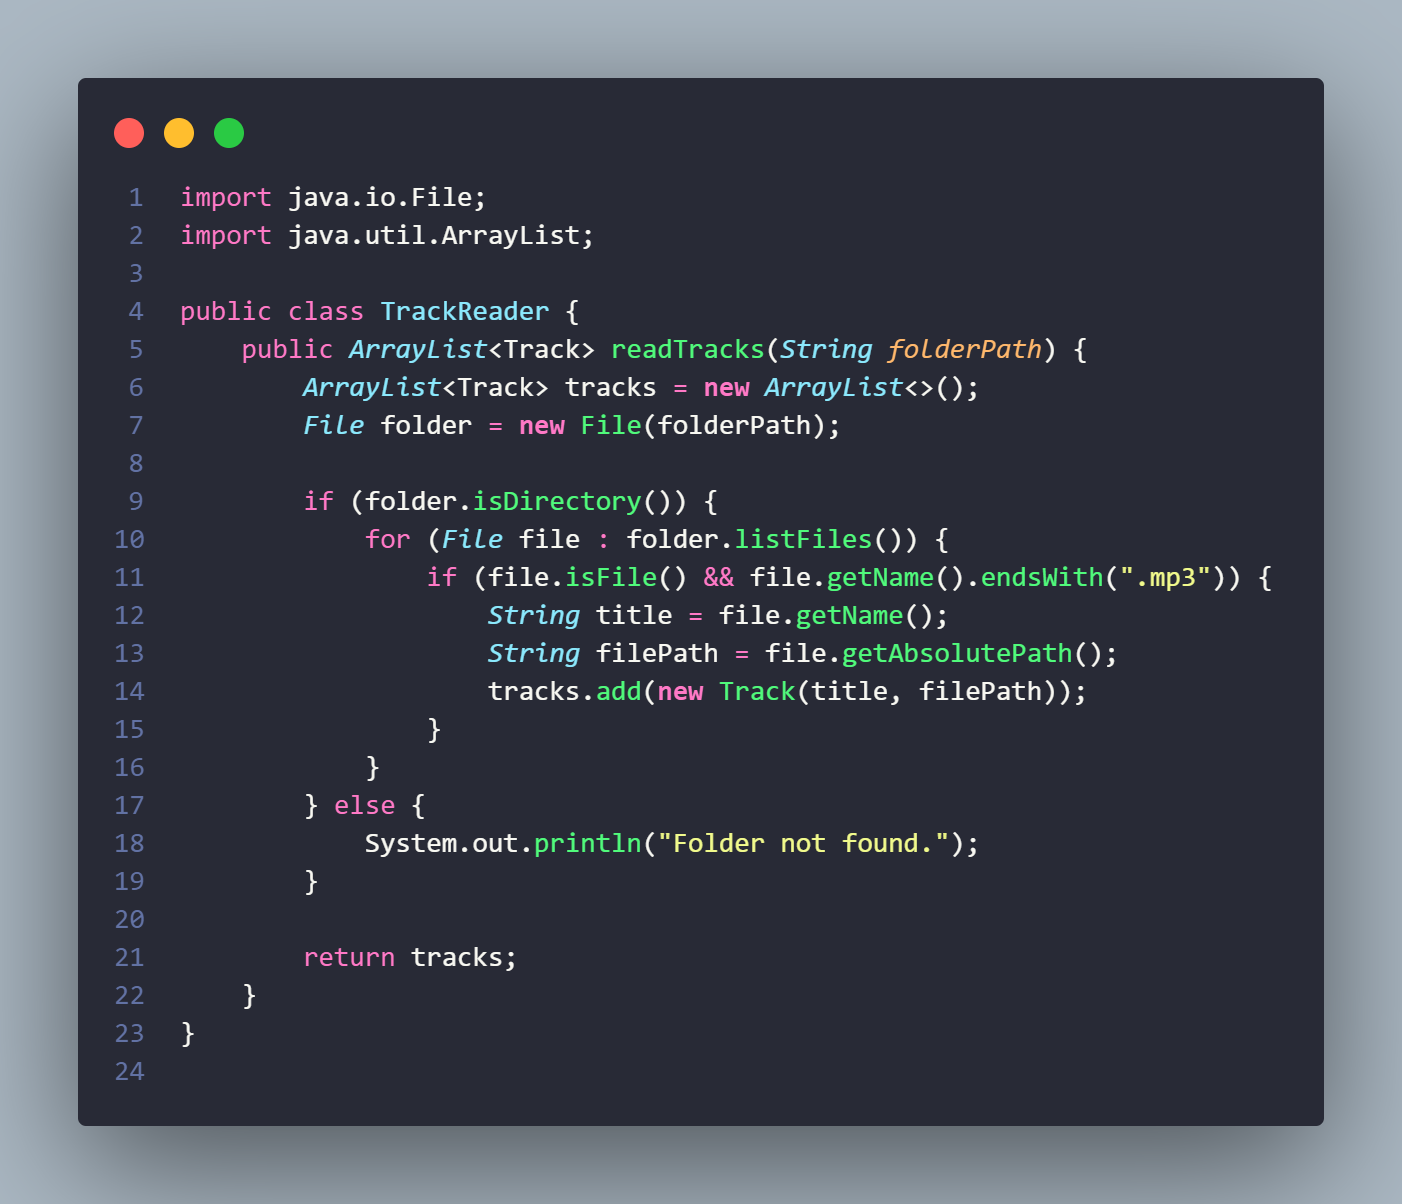
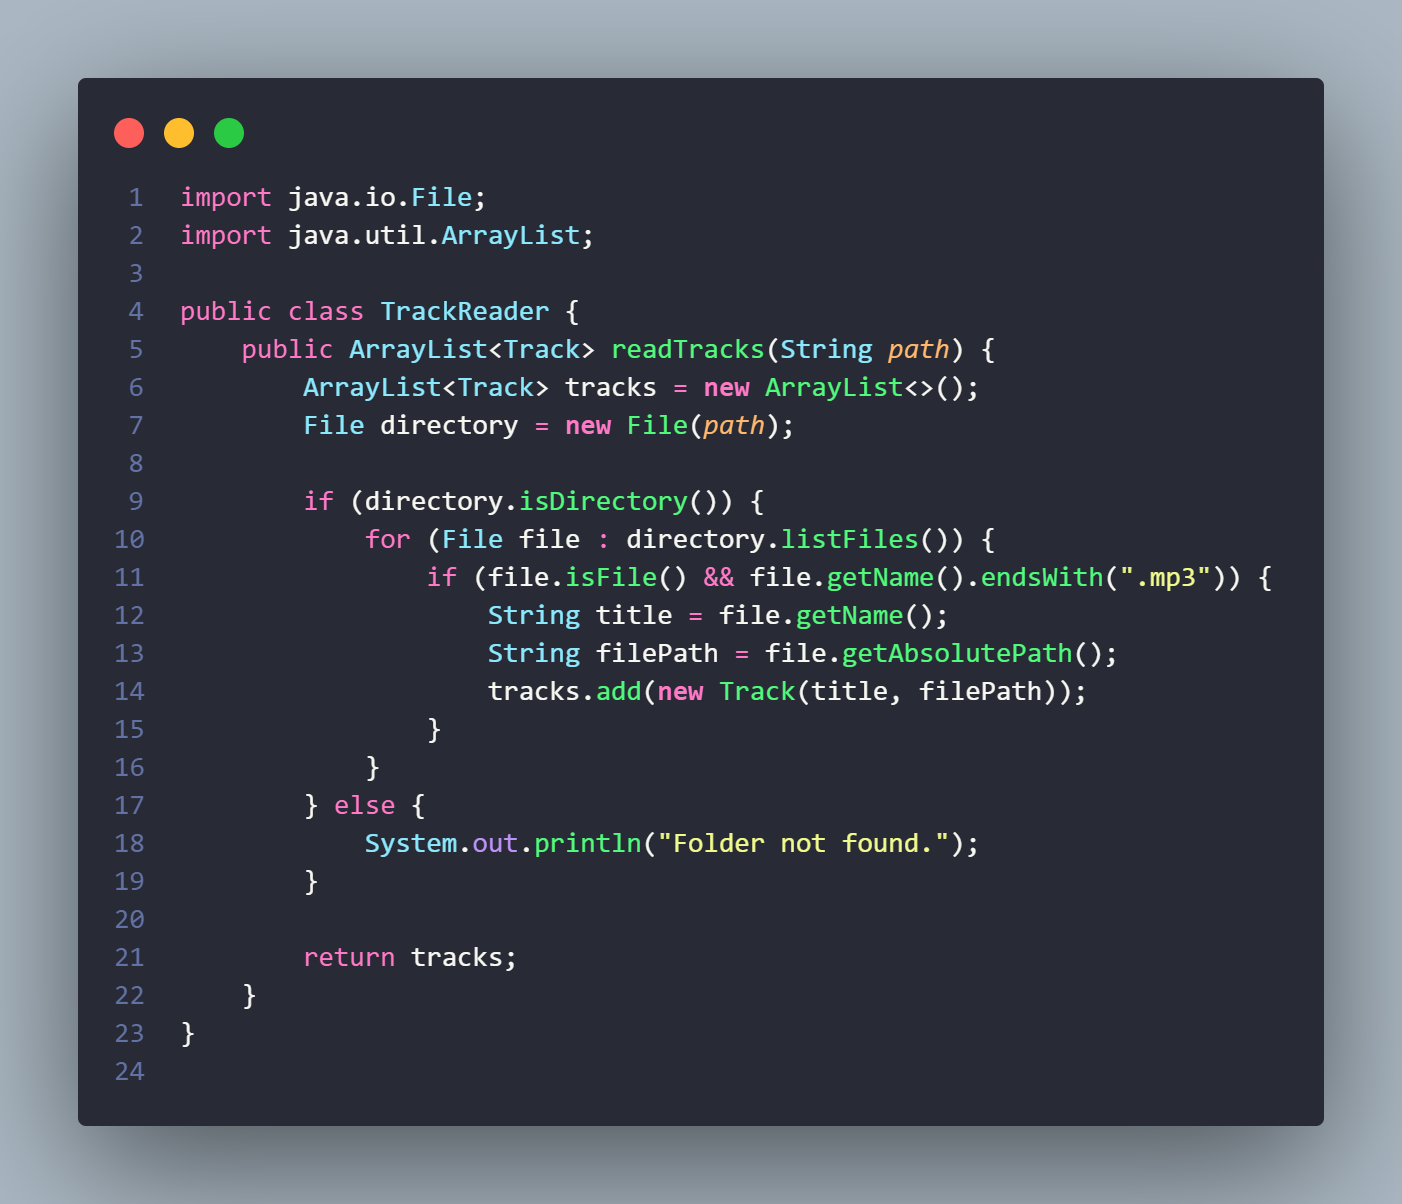
Kurang satu kelas  serta contoh program saat berjalan

diff --git a/Resources/src/Music Organizer/src/TrackReader.java b/Resources/src/Music Organizer/src/TrackReader.java
@@ -2,12 +2,12 @@ import java.io.File;
 import java.util.ArrayList;
 
 public class TrackReader {
-    public ArrayList<Track> readTracks(String folderPath) {
+    public ArrayList<Track> readTracks(String path) {
         ArrayList<Track> tracks = new ArrayList<>();
-        File folder = new File(folderPath);
+        File directory = new File(path);
 
-        if (folder.isDirectory()) {
-            for (File file : folder.listFiles()) {
+        if (directory.isDirectory()) {
+            for (File file : directory.listFiles()) {
                 if (file.isFile() && file.getName().endsWith(".mp3")) {
                     String title = file.getName();
                     String filePath = file.getAbsolutePath();

diff --git a/README.md b/README.md
@@ -12,15 +12,35 @@
 
 ### **Fungsi**
 
-
+Kelas ini merepresentasikan setiap musik yang akan di kelola.
 
 ### **Atribut**
 
+**title**
 
+Atribut ini adalah representasi dari judul dari lagu atau `track` yang menggunakan tipe data `string`.
+
+**filePath**
+
+Atribut ini merupakan path ke lagu yang tersimpan pada sistem operasi, berfungsi untuk mengidentifikasi lokasi dimana lagu tersimpan.
 
 ### **Method**
 
+**constuctor**
 
+Berfungsi untuk mengisi value dari atribut `title` dan `filepath` sesuai input parameter saat pembuatan objek.
+
+**getTitle**
+
+Berfungsi sebagai `getter` dari atribut `title`, yang dimana akan mendapatkan value dari `title`.
+
+**getFilePath**
+
+Berfungsi sebagai `getter` dari atribut `filePath`, yang dimana akan mendapatkan value dari `filePath`.
+
+**toString**
+
+Berfungsi untuk mendapatkan versi string dari objek. 
 
 ## **Class TrackReader**
 
@@ -28,15 +48,13 @@
 
 ### **Fungsi**
 
-
-
-### **Atribut**
-
-
+Kelas ini berfungsi untuk melaksanakan tugas sebagai track reader, yaitu bertugas untuk membaca file `.mp3` dari sebuah direktori dengan bantuan ekstensi `File` bawaaan dari java dan memasukkannya ke penyimpanan lagu pada program yang berupa `ArrayList`.
 
 ### **Method**
 
+**readTracks**
 
+Berfungsi sebagai logika utama dalam menjalankan fungsional sebagai track reader. Kembalian dari method ini adalah sebuath `ArrayList` yang berisi lagu-lagu yang berhasil terbaca. Pertama, method akan membuat sebuah `ArrayList` baru bernama `tracks` sebagai tempat untuk menyimpan lagu. Lalu akan menginisiasi sebuah variable bernama `directory` yang dimana akan diarahkan ke `path` dari direktori letak lagu-lagu yang ingin di load. Lalu dilakukan pengecekan terhadap variabel `directory` yang dimana jika variable tersebut tidak bertipe `directory` maka akan menampilkan pesan error `Folder not found.`. Namun jika merupakan `directory` yang valid, maka setiap file yang berada didalam folder tersebut, yang dimana memiliki nama dan ekstensi `.mp3`, nama dari file tersebut akan disimpan pada variable `title` dan path dari file tersebut akan disimpan ke dalam variabel `filePath`. Lalu, kedua variabel tersebut akan digunakan untuk membuat objek `Track` baru yang merepresentasikan sebuah lagu yang sudah dibaca dan akan ditambahkan kedalam `tracks`. Lalu method akan mengembalikan `tracks` setelah selesai melakukan proses pembacaan track.
 
 ## **Class MusicPlayer**
 
@@ -44,15 +62,23 @@
 
 ### **Fungsi**
 
-
+Fungsi kelas ini adalah menjalankan tugas sebagai music player. 
 
 ### **Atribut**
 
+**isPlaying**
 
+Berfungsi sebagai sarana pengecekan apakah terdapat suatu lagu yang sedang berjalan saat ini. 
 
 ### **Method**
 
+**play**
 
+Berfungsi untuk menjalankan track sesuai parameter input. Parameter yang diterima adalah objek dari `Track` yang ingin dijalankan. Jika saat ini sedang ada lagu yang dijalankan, maka akan mengeluarkan pesan error `A track is already playing. Stop it first.`. Namun, jika tidak ada lagu yang sedang berjalan, maka akan menjalankan lagu ditandai dengan pesan `Playing: ` diikuti oleh nama lagunya dengan memamnggil method `getNme` dari `track`. Setelah itu akan mengupdate nilai `isPlaying` menjadi `true` untuk memberi tahu sistem bahwa saat ini sedang ada lagu yang dijalankan.
+
+**stop**
+
+Berfungsi untuk memberhentikan lagu yang saat ini sedang berjalan. Pertama dilakukan pengecekan apakah terdapat lagu yang sedang berjalan, jika ada maka akan memberhentikan lagu yang ditandai pesan `Music stopped.` serta mengganti value `isPlaying` menjadi `false`. JIka tidak ada lagu yang sedang berjalan, maka akan mengeluarkan pesan error `No track is currently playing.`.
 
 ## **Class MainOrganizer**
 
